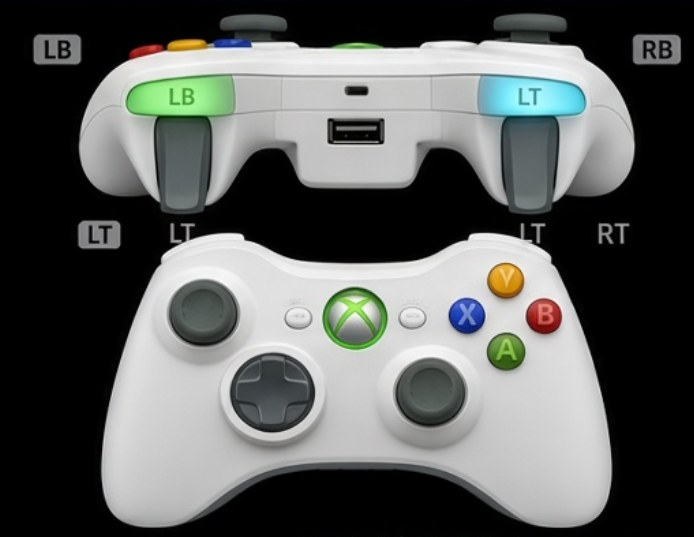
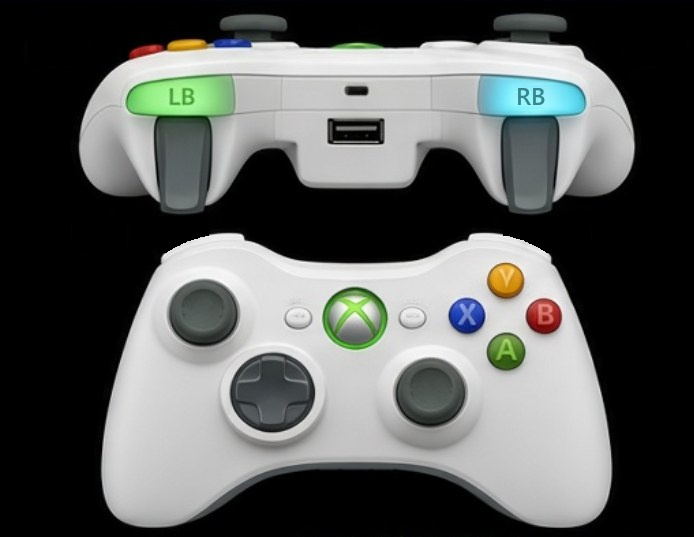
Xbox Viewer: show the controller picture again, with corrected labels
The face looked for qml/images/xbox360_two_panel.jpg, which "moved user
data" emptied. It now asks the picture lookup, which finds the copy in
the data folder's modules library.

The picture's own lettering was wrong (the right bumper read LT, the right
trigger LT); the outer tags and trigger labels are removed and only the
LB / RB on the bumpers remain.

diff --git a/qml/Xbox360Face.qml b/qml/Xbox360Face.qml
@@ -2,6 +2,7 @@
 // SPDX-License-Identifier: GPL-3.0-only
 
 import QtQuick
+import Gremlin.Device
 import Gremlin.Style
 
 Item {
@@ -32,10 +33,14 @@ Item {
     function pw(n) { return n * _pw }
     function ph(n) { return n * _ph }
 
+    // The picture lives in the data folder's modules library, with the other
+    // device pictures.
+    HardwareProfile { id: _hw }
+
     Image {
         id: _img
         anchors.fill: parent
-        source: Qt.resolvedUrl("images/xbox360_two_panel.jpg")
+        source: _hw.imageUrl("xbox360_two_panel.jpg")
         fillMode: Image.PreserveAspectFit
         asynchronous: true
         cache: true

diff --git a/claude/test-plan.md b/claude/test-plan.md
@@ -674,8 +674,8 @@ Data loss or broken feature first. IDs point to the batch rows above.
 11. H-03-dest, H-19d, H-17, H-13, OV-08b, XV-01b: Home and viewer behavior.
 12. ~~B-SPEC-IMPORTS~~ fixed: axis_delta / run_command added to spec hidden imports.
 13. Minor/cosmetic: F-01b, HD-01b, PS-06, MENU-CLIP, IC-01b, IC-17b, C-06, LP-24b, S-05b, OPT-X1b, OPT-U01b, OPT-F08b, CAL-05b, MM-01b, AE-XML-CHAIN, AE-NARROW, HH-08 note.
-14. Back burner: XB-IMG / XV-IMG (#9).
-15. To do: [Stock Images] Code still looks for the stock pictures in `qml/images`, which "moved user data" (a4f743fc) emptied; the pictures are now in `User_Data/images` and `User_Data/modules/library`. Points at the old path: `imagesFolderUrl()` (hardware_profile.py, creates an empty `qml/images` next to the exe), `_stock_photo()` / `_stock_photo_l()`, the relative-path fallback in hardware_profile.py, Button Map `stockImage`, VkbRigFace / VkbRigEditor (`images/vkb_gladiator_rig.jpg`), Xbox360Face (`images/xbox360_two_panel.jpg`, i.e. XB-IMG). Decide where stock pictures live for other users (bundled read-only vs copied into the data folder), then point all of these at one place.
+14. ~~Back burner: XB-IMG / XV-IMG (#9)~~ fixed: Xbox face loads xbox360_two_panel.jpg from the data folder's modules/library; picture labels corrected (only LB / RB on the bumpers kept).
+15. To do: [Stock Images] Code still looks for the stock pictures in `qml/images`, which "moved user data" (a4f743fc) emptied; the pictures are now in `User_Data/images` and `User_Data/modules/library`. Points at the old path: `imagesFolderUrl()` (hardware_profile.py, creates an empty `qml/images` next to the exe), `_stock_photo()` / `_stock_photo_l()`, the relative-path fallback in hardware_profile.py, Button Map `stockImage`, VkbRigFace / VkbRigEditor (`images/vkb_gladiator_rig.jpg`), Xbox360Face (done: now uses the modules library lookup). Decide where stock pictures live for other users (bundled read-only vs copied into the data folder), then point all of these at one place.
 
 ### Noted while fixing #10 (2026-09-30)
 
